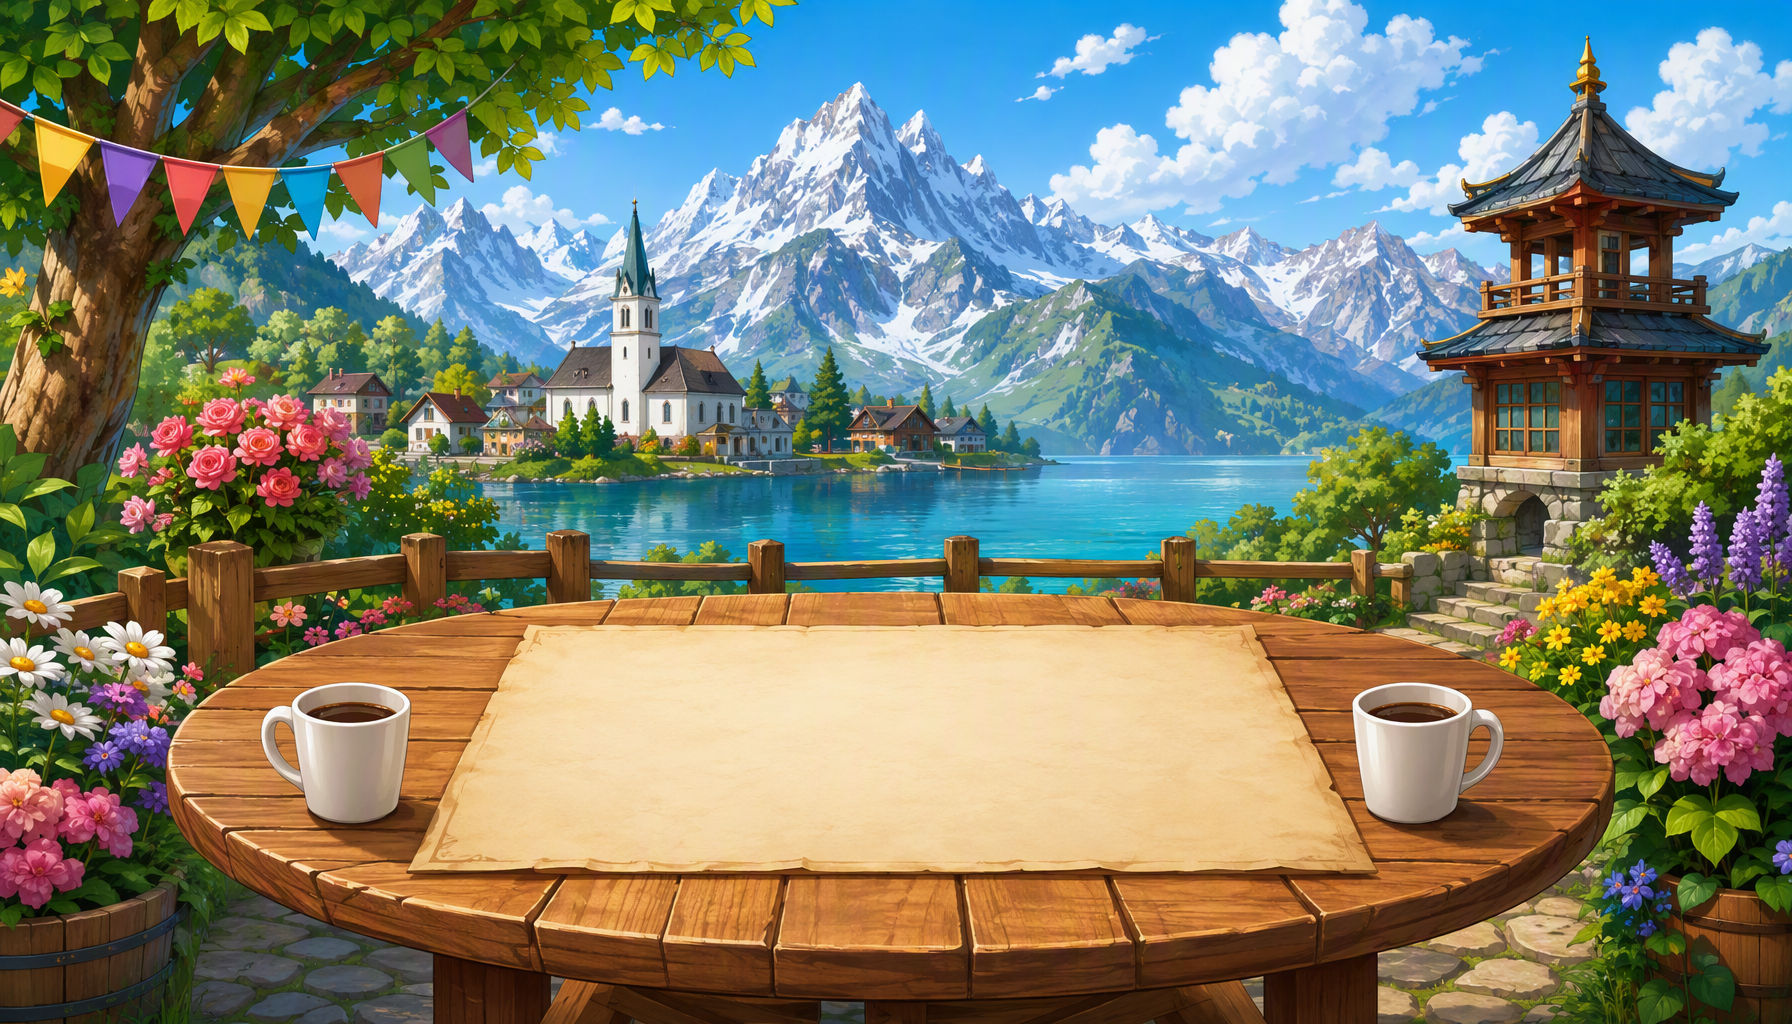
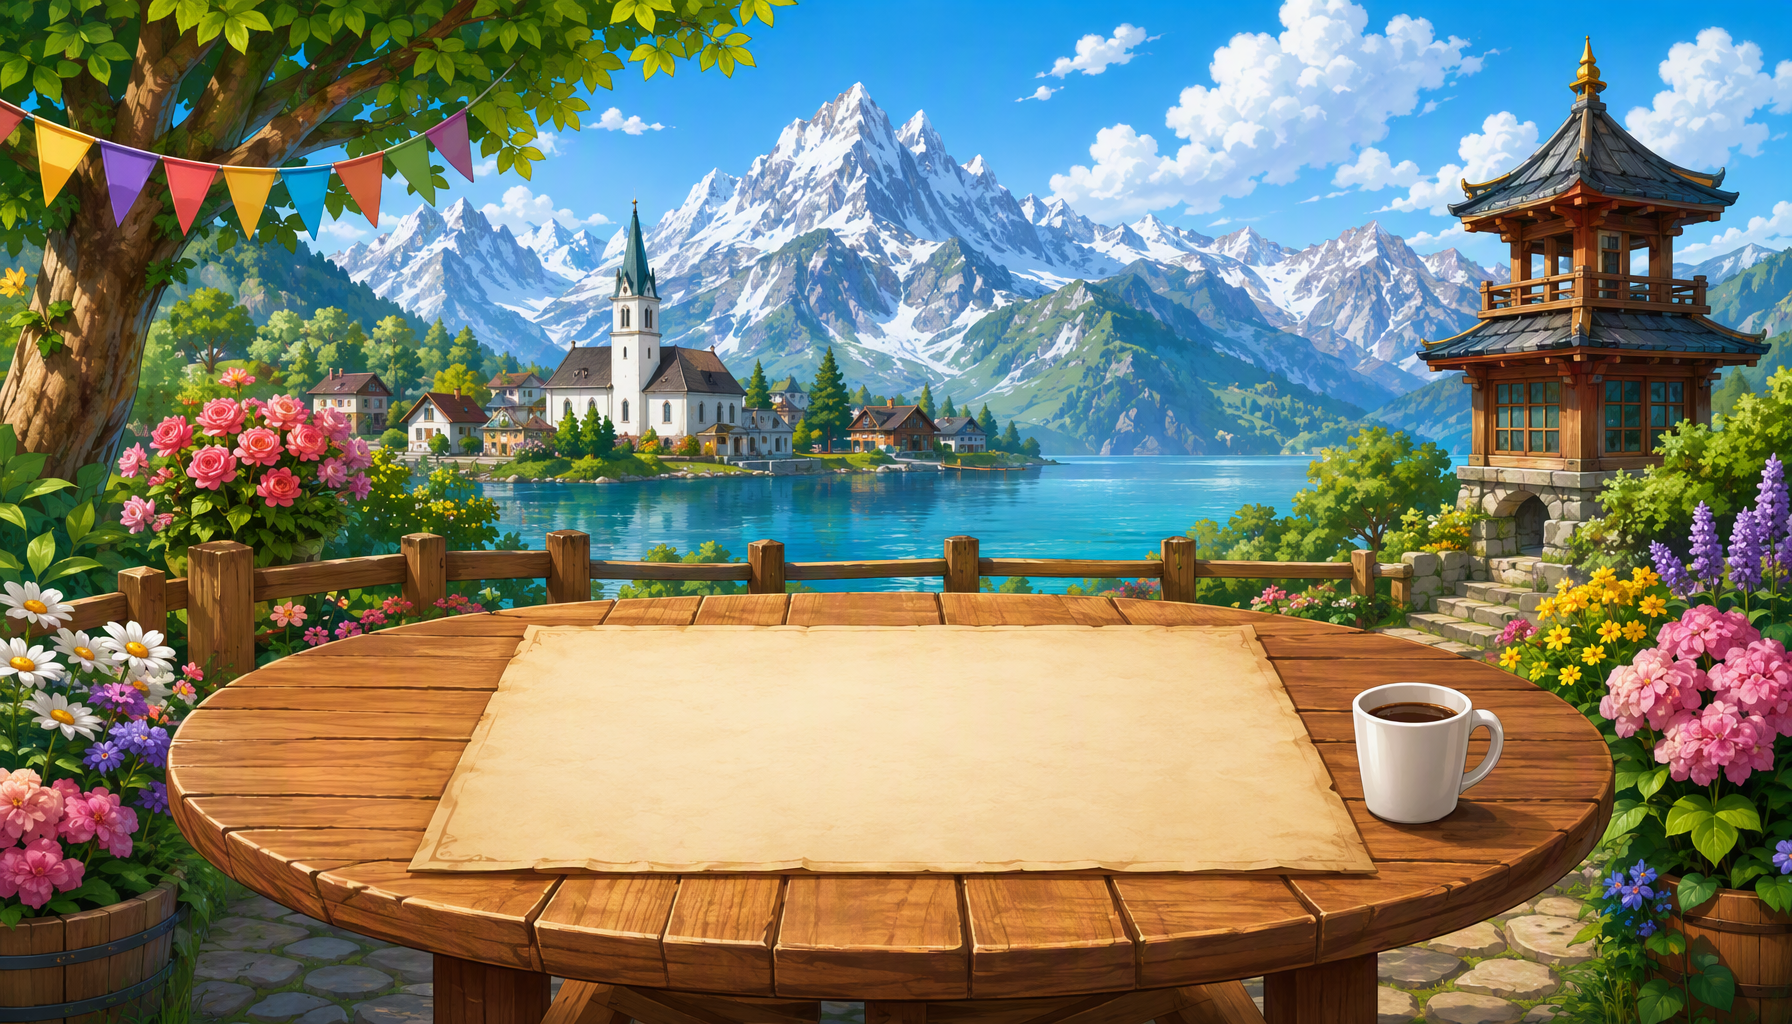
Game: remove the left coffee cup from the table background
The mug was painted into background.png; an AI inpaint of that area is
composited back so the rest of the artwork stays byte-identical (the
mirrored right-hand mug is untouched). Also centres the emote picker
beside the player's avatar.

Changed region(s): [[0.125, 0.6562, 0.25, 0.875]]

diff --git a/game/styles.css b/game/styles.css
@@ -98,10 +98,13 @@ button{font-family:inherit;font-weight:900;border:none;cursor:pointer;color:#fff
   background:linear-gradient(90deg,#ffe9a3,#f59e0b);transition:width .5s ease}
 .pcoins{display:flex;align-items:center;gap:5px;font-size:14px;font-weight:900;color:var(--gold);
   background:rgba(6,33,63,.65);border:1px solid rgba(251,191,36,.55);border-radius:999px;padding:2px 11px}
-.pcard .emote-btn{width:36px;height:26px;border-radius:9px;font-size:14px;
+/* the emote picker sits beside the avatar, centred on it, rather than at the
+   bottom of the seat */
+.pcard .emote-btn{position:absolute;left:calc(var(--seat)*-.62);top:calc(var(--seat)*.5);
+  transform:translateY(-50%);width:36px;height:26px;border-radius:9px;font-size:14px;
   background:linear-gradient(#1b5a9e,#0d3f77);border:2px solid #2f7dc0;display:inline-flex;
-  align-items:center;justify-content:center}
-.pcard .emote-btn:active{transform:scale(.92)}
+  align-items:center;justify-content:center;z-index:6}
+.pcard .emote-btn:active{transform:translateY(-50%) scale(.92)}
 .pcard.you{z-index:8}
 /* a warm spotlight and a grounded shadow, so the front seat reads as the player's
    own place at the table rather than another rival */
